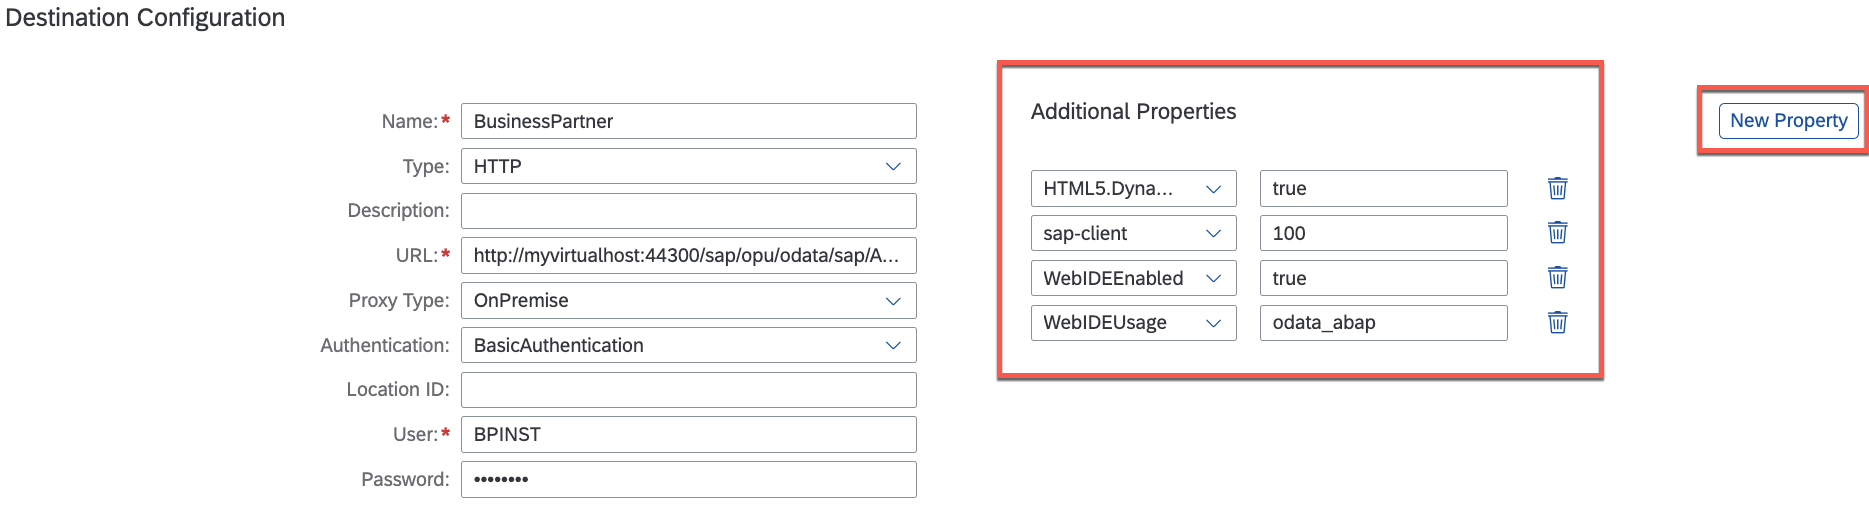
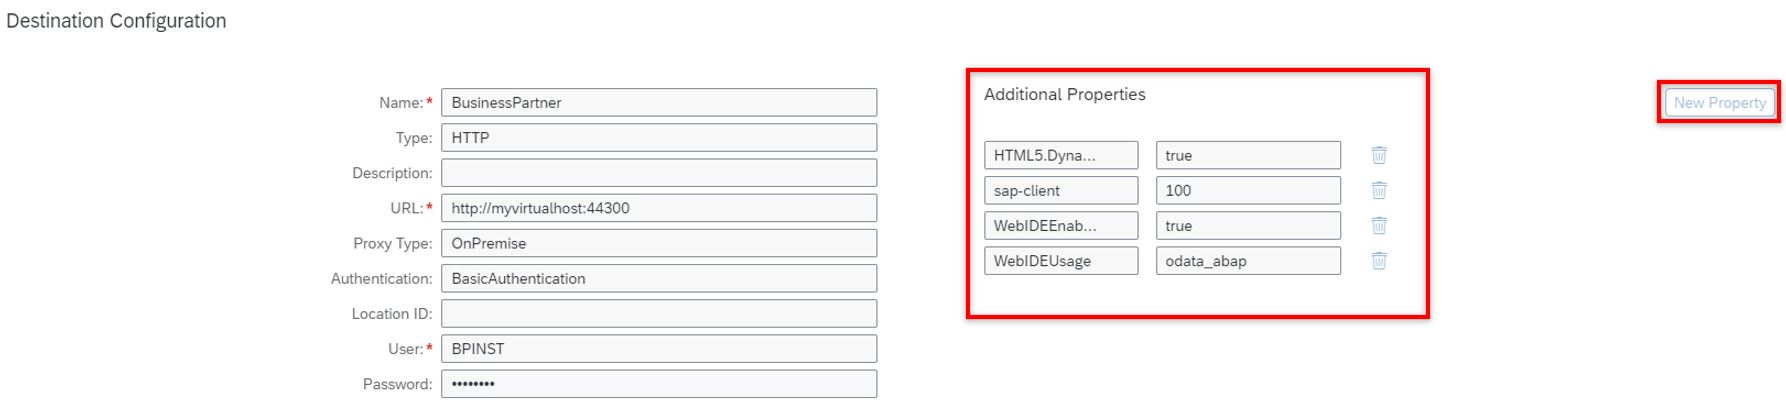
Change destination config url

diff --git a/05-CloudConnector/README.md b/05-CloudConnector/README.md
@@ -91,10 +91,10 @@ In this section you will configure the Cloud Connector for connecting the on pre
 ![Check host detail](./images/cloud-connector-11.png)
 
 3.	Go back to Connectivity in the menu on the left then choose *Destinations -> New Destination*
-
+s
 4.	Enter the following information to the Destination Configuration:
     - *Name:* BusinessPartner
-    - *Url:* http://myvirtualhost>:44300/sap/opu/odata/sap/API_BUSINESS_PARTNER (or in general http://*virtualhost*:*virtualport*/URLPath)
+    - *Url:* http://myvirtualhost:44300 (or in general http://*virtualhost*:*virtualport*)
     - *Proxy Type*: OnPremise
     - *Authentication:* 'Basic Authentication'
     - *Username:* REFAPP
